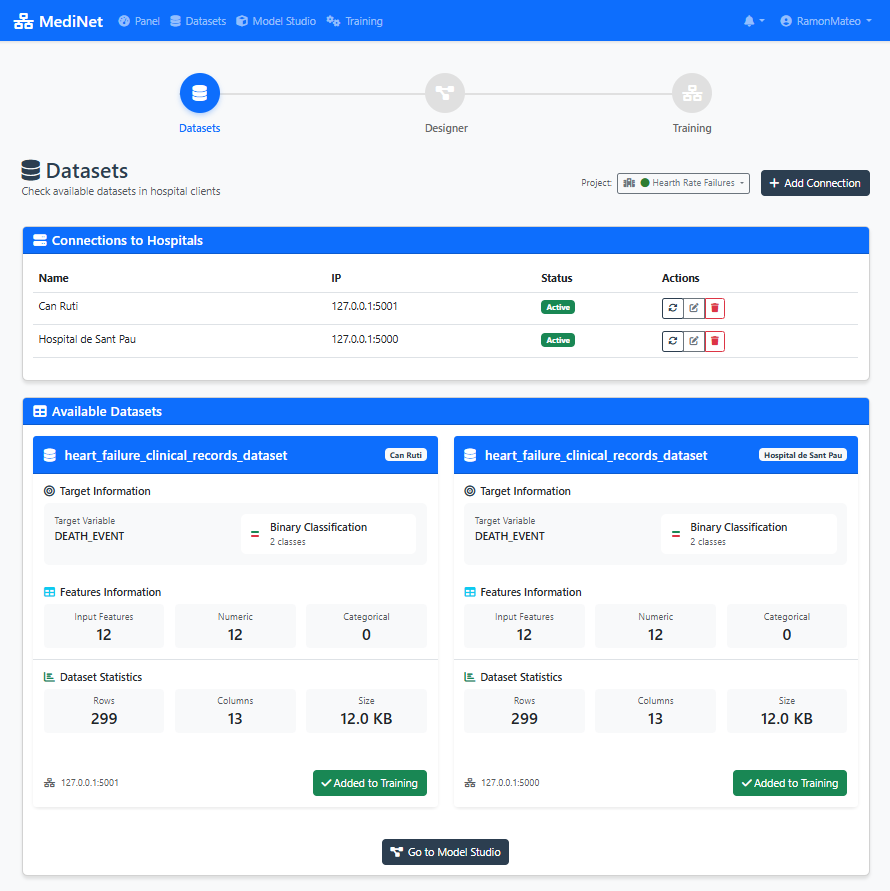
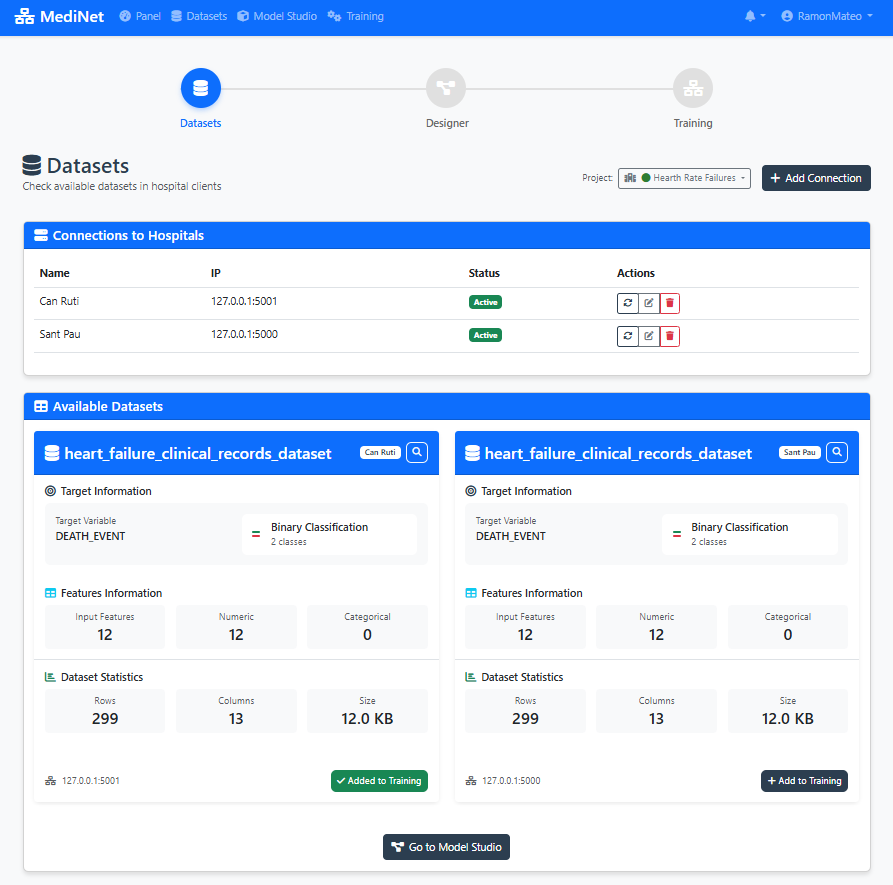
Add detailed dataset view to user guide
Introduced a new image and section in the user guide to showcase the comprehensive dataset details view, including class balance visualization, feature analysis, data quality metrics, and ML training recommendations. Updated the connections preview image as well.

diff --git a/user-guide.html b/user-guide.html
@@ -436,10 +436,21 @@
                                     <p>Distribution of categorical variables</p>
                                 </div>
                             </div>
+                            <div class="analysis-item">
+                                <span class="material-icons">search</span>
+                                <div>
+                                    <h4>Detailed View</h4>
+                                    <p>Click the magnifying glass icon for comprehensive metadata and class balance visualization</p>
+                                </div>
+                            </div>
                         </div>
                         <div class="step-image">
                             <img src="images/dataset-analysis-view.png" alt="Dataset analysis interface displaying anonymized data preview, descriptive statistics, and variable distribution charts" class="guide-img" loading="lazy">
                             <p class="image-caption">Analysis view showing statistics and preview of a medical dataset</p>
+                        </div>
+                        <div class="step-image">
+                            <img src="images/datasets-details.png" alt="Comprehensive dataset details view showing class balance visualization, feature analysis, data quality metrics, ML training suitability score, and recommended strategies for heart failure clinical records dataset" class="guide-img" loading="lazy">
+                            <p class="image-caption">Detailed dataset view with class balance, quality metrics, and ML training recommendations</p>
                         </div>
                     </div>
                 </div>
@@ -838,8 +849,10 @@
             <div class="footer-content">
                 <div class="footer-section">
                     <div class="footer-brand">
-                        <span class="material-icons">local_hospital</span>
-                        <span>MedNet</span>
+                        <img src="images/MedNet_logo-preview.png" alt="MedNet Logo" class="footer-brand-logo">
+                        <span class="footer-brand-text">
+                            <span class="med">Med</span><span class="net">Net</span>
+                        </span>
                     </div>
                     <p>Federated learning platform for the healthcare sector</p>
                 </div>

diff --git a/assets/css/style.css b/assets/css/style.css
@@ -610,7 +610,7 @@ body {
 
 .feature-item .material-icons {
     font-size: 2rem;
-    color: var(--secondary-light);
+    color: var(--white);
     margin-top: var(--space-xs);
 }
 
@@ -687,6 +687,9 @@ body {
 
 .feature-preview {
     text-align: center;
+    display: flex;
+    flex-direction: column;
+    height: 100%;
 }
 
 .feature-icon {
@@ -715,17 +718,28 @@ body {
 .feature-preview p {
     color: var(--gray-600);
     margin-bottom: var(--space-lg);
+    flex-grow: 1;
+    display: flex;
+    align-items: flex-start;
+    justify-content: center;
+    padding-top: var(--space-sm);
 }
 
 .preview-image {
     border-radius: var(--radius-lg);
     box-shadow: var(--shadow-md);
     overflow: hidden;
+    height: 250px;
+    display: flex;
+    align-items: center;
+    justify-content: center;
+    background: var(--gray-50);
 }
 
 .preview-img {
-    width: 100%;
-    height: auto;
+    max-width: 100%;
+    max-height: 100%;
+    object-fit: contain;
     display: block;
 }
 
@@ -778,6 +792,25 @@ body {
     font-size: var(--font-size-xl);
     color: var(--white);
     margin-bottom: var(--space-md);
+}
+
+.footer-brand-logo {
+    width: 40px;
+    height: 40px;
+    object-fit: contain;
+}
+
+.footer-brand-text {
+    font-size: var(--font-size-xl);
+    font-weight: 700;
+}
+
+.footer-brand-text .med {
+    color: var(--primary-color);
+}
+
+.footer-brand-text .net {
+    color: var(--secondary-color);
 }
 
 .footer-section h4 {
@@ -1204,6 +1237,11 @@ body {
     color: var(--white);
 }
 
+.quick-start-section .section-subtitle {
+    color: var(--white);
+    opacity: 0.9;
+}
+
 .quick-steps {
     display: grid;
     grid-template-columns: repeat(auto-fit, minmax(250px, 1fr));
@@ -1248,14 +1286,16 @@ body {
     color: var(--white);
 }
 
-.quick-step h3 {
+.quick-start-section .quick-step h3 {
     font-size: var(--font-size-xl);
     font-weight: 600;
     margin-bottom: var(--space-sm);
+    color: var(--white) !important;
 }
 
-.quick-step p {
+.quick-start-section .quick-step p {
     opacity: 0.9;
+    color: var(--white) !important;
 }
 
 .requirements-section {
@@ -2385,7 +2425,7 @@ img {
 }
 
 img:not(.loaded) {
-    opacity: 0.8;
+    opacity: 1;
 }
 
 img.loaded {

diff --git a/installation.html b/installation.html
@@ -48,7 +48,7 @@
             <div class="hero-content" style="grid-template-columns: 1fr; text-align: center;">
                 <div class="hero-text">
                     <h1 class="hero-title ">
-                        MedNet Installation
+                        <span class="med">Med</span><span class="net">Net</span> Installation
                         <span class="hero-subtitle">Step-by-step server and client configuration</span>
                     </h1>
                     <p class="hero-description  ">
@@ -650,8 +650,10 @@ python manage.py migrate</code></pre>
             <div class="footer-content">
                 <div class="footer-section">
                     <div class="footer-brand">
-                        <span class="material-icons">local_hospital</span>
-                        <span>MedNet</span>
+                        <img src="images/MedNet_logo-preview.png" alt="MedNet Logo" class="footer-brand-logo">
+                        <span class="footer-brand-text">
+                            <span class="med">Med</span><span class="net">Net</span>
+                        </span>
                     </div>
                     <p>Federated learning platform for the healthcare sector</p>
                 </div>

diff --git a/features.html b/features.html
@@ -527,8 +527,10 @@
             <div class="footer-content">
                 <div class="footer-section">
                     <div class="footer-brand">
-                        <span class="material-icons">local_hospital</span>
-                        <span>MedNet</span>
+                        <img src="images/MedNet_logo-preview.png" alt="MedNet Logo" class="footer-brand-logo">
+                        <span class="footer-brand-text">
+                            <span class="med">Med</span><span class="net">Net</span>
+                        </span>
                     </div>
                     <p>Federated learning platform for the healthcare sector</p>
                 </div>

diff --git a/index.html b/index.html
@@ -287,8 +287,10 @@
             <div class="footer-content">
                 <div class="footer-section">
                     <div class="footer-brand">
-                        <span class="material-icons">local_hospital</span>
-                        <span>MedNet</span>
+                        <img src="images/MedNet_logo-preview.png" alt="MedNet Logo" class="footer-brand-logo">
+                        <span class="footer-brand-text">
+                            <span class="med">Med</span><span class="net">Net</span>
+                        </span>
                     </div>
                     <p>Federated learning platform for the healthcare sector</p>
                 </div>

diff --git a/roadmap.html b/roadmap.html
@@ -521,8 +521,10 @@
             <div class="footer-content">
                 <div class="footer-section">
                     <div class="footer-brand">
-                        <span class="material-icons">local_hospital</span>
-                        <span>MedNet</span>
+                        <img src="images/MedNet_logo-preview.png" alt="MedNet Logo" class="footer-brand-logo">
+                        <span class="footer-brand-text">
+                            <span class="med">Med</span><span class="net">Net</span>
+                        </span>
                     </div>
                     <p>Federated learning platform for the healthcare sector</p>
                 </div>

diff --git a/security.html b/security.html
@@ -360,8 +360,10 @@
             <div class="footer-content">
                 <div class="footer-section">
                     <div class="footer-brand">
-                        <span class="material-icons">local_hospital</span>
-                        <span>MedNet</span>
+                        <img src="images/MedNet_logo-preview.png" alt="MedNet Logo" class="footer-brand-logo">
+                        <span class="footer-brand-text">
+                            <span class="med">Med</span><span class="net">Net</span>
+                        </span>
                     </div>
                     <p>Federated learning platform for the healthcare sector</p>
                 </div>

diff --git a/use-cases.html b/use-cases.html
@@ -918,8 +918,10 @@
             <div class="footer-content">
                 <div class="footer-section">
                     <div class="footer-brand">
-                        <span class="material-icons">local_hospital</span>
-                        <span>MedNet</span>
+                        <img src="images/MedNet_logo-preview.png" alt="MedNet Logo" class="footer-brand-logo">
+                        <span class="footer-brand-text">
+                            <span class="med">Med</span><span class="net">Net</span>
+                        </span>
                     </div>
                     <p>Federated learning platform for the healthcare sector</p>
                 </div>
